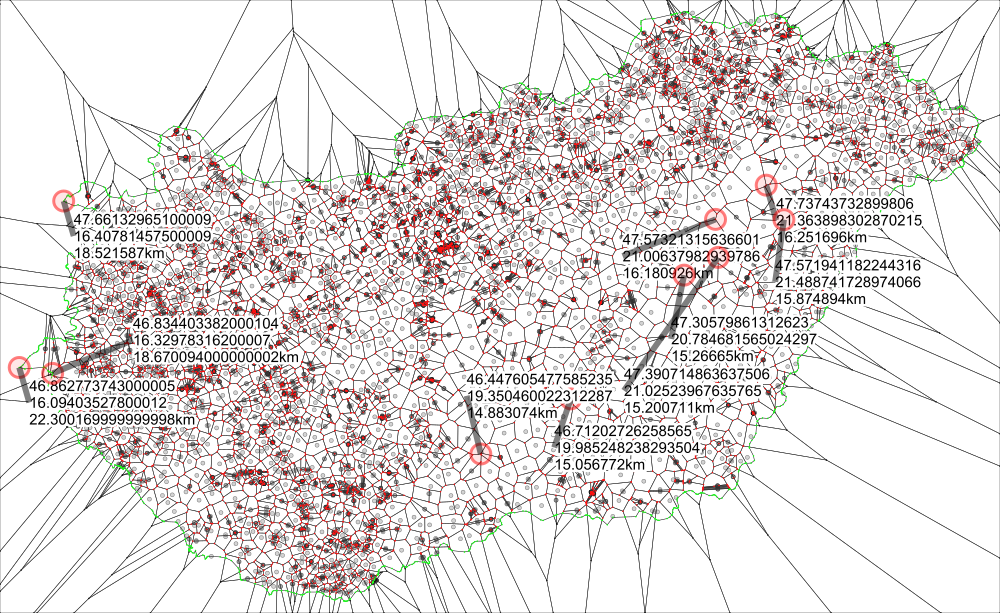
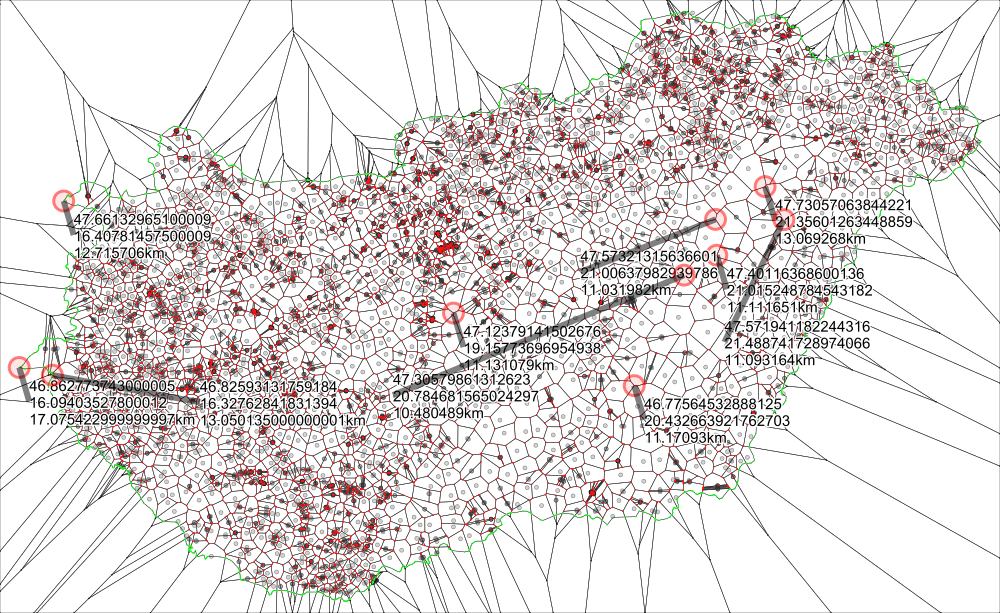
Fixed calculation of distances. Allows configuring settings from external file

Changed region(s): [[0.372, 0.279, 0.93, 0.7749], [0.031, 0.4959, 0.372, 0.7129], [0.062, 0.3409, 0.217, 0.4339]]

diff --git a/generate_data.js b/generate_data.js
@@ -1,68 +1,80 @@
 #!/usr/bin/env node
 
+const fs = require('fs');
+const process = require('process');
+
+const args = process.argv;
+if (args.length != 3) {
+    console.log("Usage: generate_data.js <config_file_name>");
+    process.exit(1);
+}
+
 console.log('Preparing data');
 
+const config = JSON.parse(fs.readFileSync(args[2]));
+
 // configuration
-const INPUT_FILE_NAME = 'datasets/gb_pubs.json';
-const BOUNDARY_FILE_NAME = 'boundaries/great_britain.json';
-const OUTPUT_FILE_NAME = 'images/gb_pubs.png';
+const INPUT_FILE_NAME = config.INPUT_FILE_NAME || process.exit(2);
+const BOUNDARY_FILE_NAME = config.BOUNDARY_FILE_NAME || process.exit(2);
+const OUTPUT_FILE_NAME = config.OUTPUT_FILE_NAME || process.exit(2);
 
-const IMAGE_WIDTH = 10000; // px
+const IMAGE_WIDTH = config.IMAGE_WIDTH || process.exit(2); // px
 
-const NUMBER_OF_CLUSTERS = 40;
-const CLUSTERING_MINIMUM_DISTANCE = 100; //in km
-const BORDER_PROCESSING_MODE = 1;
+const NUMBER_OF_CLUSTERS = config.NUMBER_OF_CLUSTERS || process.exit(2);
+const CLUSTERING_MINIMUM_DISTANCE = config.CLUSTERING_MINIMUM_DISTANCE || process.exit(2); //in km
+const BORDER_PROCESSING_MODE = config.BORDER_PROCESSING_MODE || 1;
 // 0: slowest; gives best results on concave countries with lots of islands
 // 1: middle ground; gives okay results for countries with lots of islands, but can skip some border points in concave countries
 // 2: fastest; works okay for single polygon, convex countries with no islands
-const AUTO_ADJUST_COORDINATE_MAPPING = true;
+const AUTO_ADJUST_COORDINATE_MAPPING = config.AUTO_ADJUST_COORDINATE_MAPPING || true;
 // when true it will adjust the height of the image based on the median latitude as well - but keep a simple equirectangular projection
 // When turned off will use plain plate carrée projection
 
-const NODE_FILL_COLOR = "rgba(80,80,80, 0.25)";
-const NODE_STROKE_COLOR = "rgba(0,0,0, 0.5)";
-const NODE_STROKE_WIDTH = 0.5;
-const NODE_RADIUS = IMAGE_WIDTH / 500;
+const NODE_FILL_COLOR = config.NODE_FILL_COLOR || "rgba(80,80,80, 0.25)";
+const NODE_STROKE_COLOR = config.NODE_STROKE_COLOR || "rgba(0,0,0, 0.5)";
+const NODE_STROKE_WIDTH = config.NODE_STROKE_WIDTH || 0.5;
+const NODE_RADIUS = config.NODE_RADIUS || IMAGE_WIDTH / 500;
 
-const VORONOI_CELL_STROKE_COLOR = "#333333";
-const VORONOI_CELL_STROKE_WIDTH = 0.5;
+const VORONOI_CELL_STROKE_COLOR = config.VORONOI_CELL_STROKE_COLOR || "#333333";
+const VORONOI_CELL_STROKE_WIDTH = config.VORONOI_CELL_STROKE_WIDTH || 0.5;
 
-const BOUNDARY_STROKE_COLOR = "#000000";
-const BOUNDARY_STROKE_WIDTH = IMAGE_WIDTH / 2000;
+const BOUNDARY_STROKE_COLOR = config.BOUNDARY_STROKE_COLOR || "#000000";
+const BOUNDARY_STROKE_WIDTH = config.BOUNDARY_STROKE_WIDTH || IMAGE_WIDTH / 2000;
 
-const VORONOI_NODE_ACTIVE_FILL_COLOR = "#FF5555";
-const VORONOI_NODE_INACTIVE_FILL_COLOR = "#555555";
-const VORONOI_NODE_ACTIVE_STROKE_COLOR = "#FF0000";
-const VORONOI_NODE_INACTIVE_STROKE_COLOR = "#000000";
-const VORONOI_NODE_STROKE_WIDTH = 0.5;
-const VORONOI_NODE_RADIUS = IMAGE_WIDTH / 2000;
+const VORONOI_NODE_ACTIVE_FILL_COLOR = config.VORONOI_NODE_ACTIVE_FILL_COLOR || "#FF5555";
+const VORONOI_NODE_INACTIVE_FILL_COLOR = config.VORONOI_NODE_INACTIVE_FILL_COLOR || "#555555";
+const VORONOI_NODE_ACTIVE_STROKE_COLOR = config.VORONOI_NODE_ACTIVE_STROKE_COLOR || "#FF0000";
+const VORONOI_NODE_INACTIVE_STROKE_COLOR = config.VORONOI_NODE_INACTIVE_STROKE_COLOR || "#000000";
+const VORONOI_NODE_STROKE_WIDTH = config.VORONOI_NODE_STROKE_WIDTH || 0.5;
+const VORONOI_NODE_RADIUS = config.VORONOI_NODE_RADIUS || IMAGE_WIDTH / 2000;
 
-const BOUNDARY_VERTEX_FILL_COLOR = "#55FF55";
-const BOUNDARY_VERTEX_STROKE_COLOR = "#00FF00";
-const BOUNDARY_VERTEX_STROKE_WIDTH = 0.5;
-const BOUNDARY_VERTEX_RADIUS = IMAGE_WIDTH / 2000;
+const BOUNDARY_VERTEX_FILL_COLOR = config.BOUNDARY_VERTEX_FILL_COLOR || "#55FF55";
+const BOUNDARY_VERTEX_STROKE_COLOR = config.BOUNDARY_VERTEX_STROKE_COLOR || "#00FF00";
+const BOUNDARY_VERTEX_STROKE_WIDTH = config.BOUNDARY_VERTEX_STROKE_WIDTH || 0.5;
+const BOUNDARY_VERTEX_RADIUS = config.BOUNDARY_VERTEX_RADIUS || IMAGE_WIDTH / 2000;
 
-const BOUNDARY_INTERSECTION_FILL_COLOR = "#99FF99";
-const BOUNDARY_INTERSECTION_STROKE_COLOR = "#00FF00";
-const BOUNDARY_INTERSECTION_STROKE_WIDTH = 0.5;
-const BOUNDARY_INTERSECTION_RADIUS = IMAGE_WIDTH / 2000;
+const BOUNDARY_INTERSECTION_FILL_COLOR = config.BOUNDARY_INTERSECTION_FILL_COLOR || "#99FF99";
+const BOUNDARY_INTERSECTION_STROKE_COLOR = config.BOUNDARY_INTERSECTION_STROKE_COLOR || "#00FF00";
+const BOUNDARY_INTERSECTION_STROKE_WIDTH = config.BOUNDARY_INTERSECTION_STROKE_WIDTH || 0.5;
+const BOUNDARY_INTERSECTION_RADIUS = config.BOUNDARY_INTERSECTION_RADIUS || IMAGE_WIDTH / 2000;
 
-const FOUND_NODE_FILL_COLOR = "rgba(255,0,0,0.1)";
-const FOUND_NODE_STROKE_COLOR = "rgba(255,0,0,0.5)";
-const FOUND_NODE_ARROW_STROKE_COLOR = "rgba(0,0,0,0.5)";
-const FOUND_NODE_ARROW_STROKE_WIDTH = 6;
-const FOUND_NODE_STROKE_WIDTH = 3;
-const FOUND_NODE_RADIUS = IMAGE_WIDTH / 100;
+const FOUND_NODE_FILL_COLOR = config.FOUND_NODE_FILL_COLOR || "rgba(255,0,0,0.1)";
+const FOUND_NODE_STROKE_COLOR = config.FOUND_NODE_STROKE_COLOR || "rgba(255,0,0,0.5)";
+const FOUND_NODE_ARROW_STROKE_COLOR = config.FOUND_NODE_ARROW_STROKE_COLOR || "rgba(0,0,0,0.5)";
+const FOUND_NODE_ARROW_STROKE_WIDTH = config.FOUND_NODE_ARROW_STROKE_WIDTH || 6;
+const FOUND_NODE_STROKE_WIDTH = config.FOUND_NODE_STROKE_WIDTH || 3;
+const FOUND_NODE_RADIUS = config.FOUND_NODE_RADIUS || IMAGE_WIDTH / 100;
 
-const FOUND_NODE_FONT = "60px Arial";
-const FOUND_NODE_FONT_FILL_COLOR = "#000000";
-const FOUND_NODE_FONT_STROKE_COLOR = "#FFFFFF";
-const FOUND_NODE_FONT_STROKE_WIDTH = 10;
-const FOUND_NODE_TEXT_HEIGHT = 200; // No way to get this automated using HTML5 Canvas
+var fontSize = Math.max(15,Math.round(IMAGE_WIDTH/150));
+const FOUND_NODE_FONT = config.FOUND_NODE_FONT || fontSize + "px Arial";
+const FOUND_NODE_FONT_FILL_COLOR = config.FOUND_NODE_FONT_FILL_COLOR || "#000000";
+const FOUND_NODE_FONT_STROKE_COLOR = config.FOUND_NODE_FONT_STROKE_COLOR || "#FFFFFF";
+const FOUND_NODE_FONT_STROKE_WIDTH = config.FOUND_NODE_FONT_STROKE_WIDTH || fontSize/6;
+const FOUND_NODE_TEXT_HEIGHT = config.FOUND_NODE_TEXT_HEIGHT || fontSize*3.2;
+// No way to get this automated using HTML5 Canvas
 
 //requires
 const { Delaunay } = require('d3-delaunay');
-const fs = require('fs');
 const { createCanvas } = require('canvas');
 const turf = require('@turf/turf');
 const LatLon = require('geodesy').LatLonEllipsoidal;
@@ -248,8 +260,8 @@ console.log("Obtaining distance data");
 var distanceMap = [];
 for (let point of potentialPoints) {
     let otherPoint = points[delaunay.find(point[0],point[1])];
-    let p1 = new LatLon(point[0], point[1]/HEIGHT_ADJUST);
-    let p2 = new LatLon(otherPoint[0], otherPoint[1]/HEIGHT_ADJUST);
+    let p1 = new LatLon(point[1]/HEIGHT_ADJUST, point[0]);
+    let p2 = new LatLon(otherPoint[1]/HEIGHT_ADJUST, otherPoint[0]);
     let d = p1.distanceTo(p2);
     distanceMap.push([d, {
         point: point,
@@ -269,8 +281,8 @@ while (distanceCluster.length < NUMBER_OF_CLUSTERS && index < distanceMap.length
     let data = distanceMap[index];
     let minDist = Infinity;
     for (let i = 0; i < distanceCluster.length; i++) {
-        let p1 = new LatLon(data[1].point[0], data[1].point[1]/HEIGHT_ADJUST);
-        let p2 = new LatLon(distanceCluster[i][1].point[0], distanceCluster[i][1].point[1]/HEIGHT_ADJUST);
+        let p1 = new LatLon(data[1].point[1]/HEIGHT_ADJUST, data[1].point[0]);
+        let p2 = new LatLon(distanceCluster[i][1].point[1]/HEIGHT_ADJUST, distanceCluster[i][1].point[0]);
         let d = p1.distanceTo(p2);
         if (d < minDist) {
             minDist = d;

diff --git a/README.md b/README.md
@@ -27,9 +27,16 @@ Usage
 
 The app requires Node.JS to be installed, and the proper modules downloaded using `npm install`.
 
-Once the setup is done change the constants at the start of `generate_data.js` to match the input and output filenames, then simply run `./generate_data.js`
+Once the setup is done create a new config file (or use any existing one).
+You can check any of the examples inside the `configs` directory for templates.
 
-Some useful config values to change:
+Once you have the config simply run:
+
+```
+./generate_data.js <config_filename>
+```
+
+Some useful config values you can change:
 
 * `INPUT_FILE_NAME`: The input file containing the set of points we wish to avoid. It's a JSON array of `[lon,lat]` pairs preferably in WGS84.
 * `BOUNDARY_FILE_NAME`: The file containig the boundary of the country in geoJSON multi-polygon format. For fast results only run it one land, but the script should work fine with datasets containing islands as well.
@@ -40,7 +47,7 @@ Some useful config values to change:
 * `BORDER_PROCESSING_MODE`: Determines what kind of intersections between the Voronoi-edges and the border should be checked. 0 is the slowest but most complete, 1 is a middle ground, which should work for most cases, but might skip some points around concave features and islands, and 2 is a fast solution that only gives satisfactory results on single-polygon, convex countries.
 * `AUTO_ADJUST_COORDINATE_MAPPING`: Sets whether to use plain plate carrée projection, or try to compesate is based on the median latitude for a nicer image. Should be turned off if the median latitude is too far off the North or South, or not in the `[-90..90]` range.
 
-You can also change the styling on the output by changing any of the other values
+You can also change the styling on the output by changing any of the other values, please consult the start of the  `generate_data.js` file about the available options.
 
 Examples
 --------
@@ -49,7 +56,7 @@ Some examples:
 
 ### Points furthest away in Hungary from a street named "Kossuth"
 
-Almost all settlements in Hungary have a street or square named "Kossuth". If you wish to be the furthest away from any of them, the best place is around the tripoint border between Hungary, Austria and Slovenia where you'll be 22.30km away from one.
+Almost all settlements in Hungary have a street or square named "Kossuth". If you wish to be the furthest away from any of them, the best place is around the tripoint border between Hungary, Austria and Slovenia where you'll be 17km away from one.
 
 Large resolution map:
 ![Kossuth large](https://raw.githubusercontent.com/sztupy/kossuth-map/master/images/kossuth.jpg)
@@ -77,7 +84,7 @@ osmconvert hungary2.osm –all-to-nodes –csv=“@id @lon @lat name” –csv-h
 
 ### Points furthest away in Hungary from any sports complex
 
-There's plenty of sports complexes in Hungary. To be the furthest from one, you have to be in the centre of Hortobágy National Park, where the closest complex will be 15.25km away.
+There's plenty of sports complexes in Hungary. To be the furthest from one, you have to be just North-East of  Hortobágy National Park in the middle of nowhere, where the closest complex will be a mere 12km away.
 
 Large resolution map:
 ![Stadion large](https://raw.githubusercontent.com/sztupy/kossuth-map/master/images/stadionok.jpg)
@@ -89,7 +96,9 @@ The dataset is from a list I gathered for another project called Magyar Stadiono
 
 ### Points furthest away in Great Britain from a pub
 
-Also it's widely known that there are a lot of pubs in the UK. However there's not that many of them in the Highlands, you can be 94km from one if you go to the right spot. The best you can do is 18km in Wales, and 12.5km in England.
+Also it's widely known that there are a lot of pubs in the UK. However there's not that many of them in the Highlands, you can actually be 72km from one if you go to the right spot (or, if you include Hirta Isle the distance is 80km).
+
+The best you can do is 13km in Wales, and 11.8km in England (excluding Lundi Isle where it's 26km).
 
 Large resolution map:
 ![GB Pubs](https://raw.githubusercontent.com/sztupy/kossuth-map/master/images/gb_pubs.jpg)
@@ -98,7 +107,7 @@ Data source: https://www.getthedata.com/open-pubs
 
 ### Points furthest away in Scotland from a distillery
 
-The Isles are left out from distilleries, and on the Mainland you actually have to head to England to get far away from some Scotch.
+The Isles are left out from distilleries unfortunately, especially Shetland, where Unst is 240km away from the nearest distillery. On the mainland... well you have to head towards England to get 102km away from Scotch.
 
 Large resolution map:
 ![Scottish distilleries](https://raw.githubusercontent.com/sztupy/kossuth-map/master/images/scottish_distilleries.jpg)
